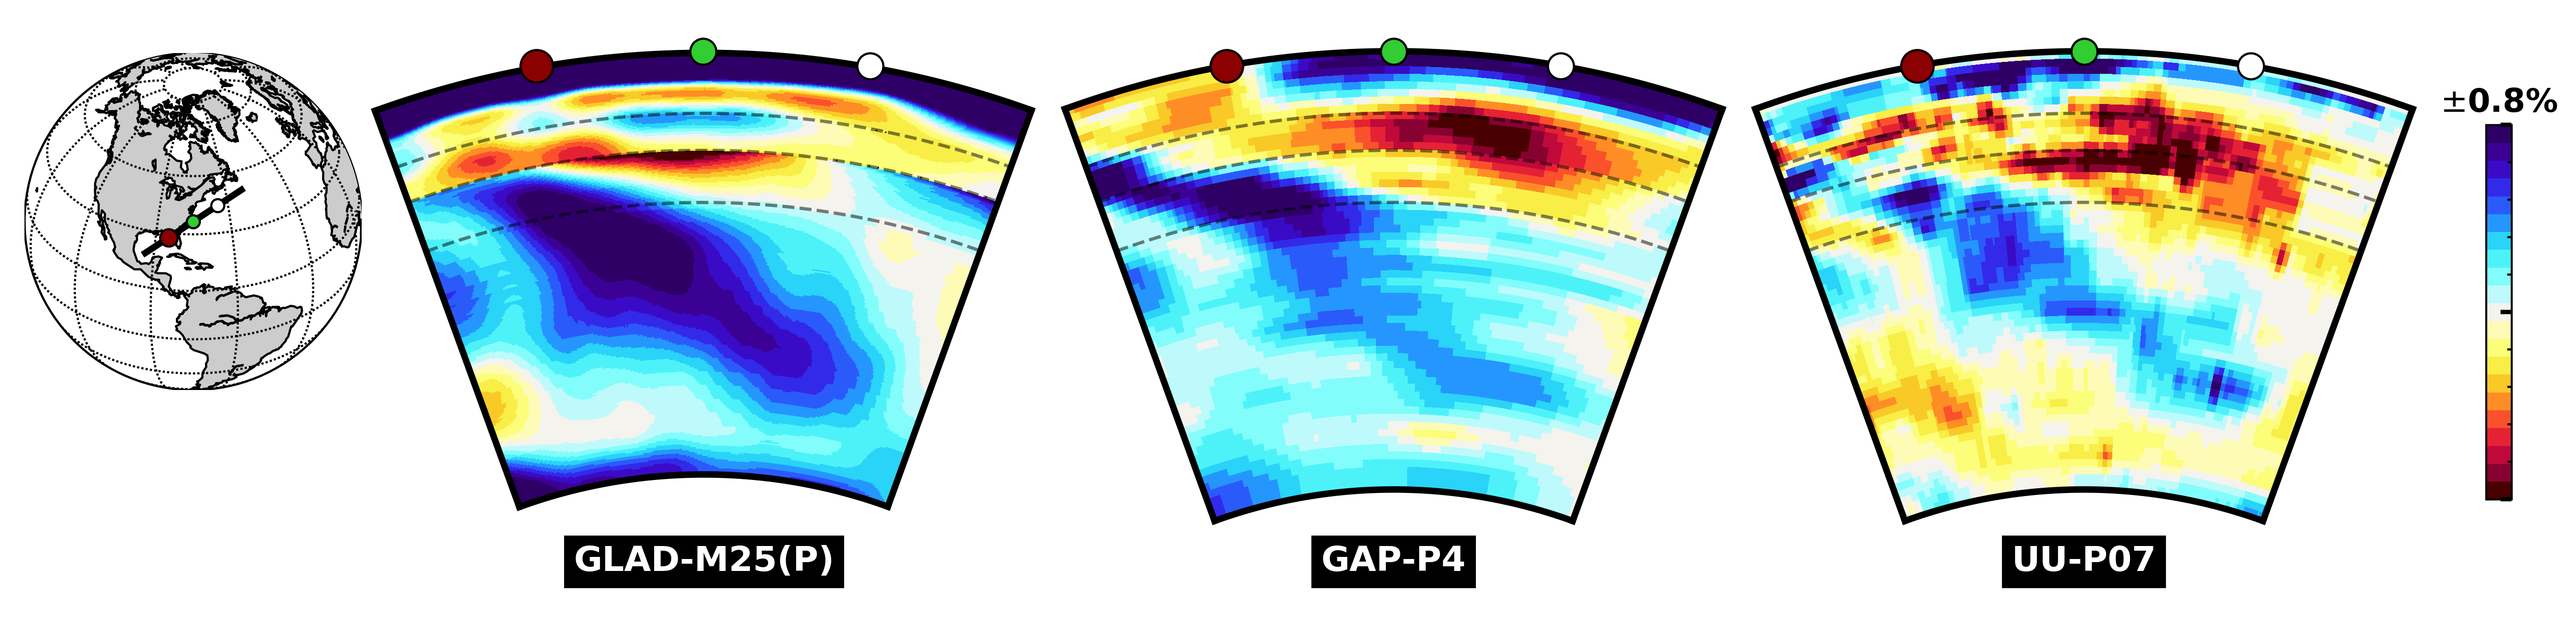
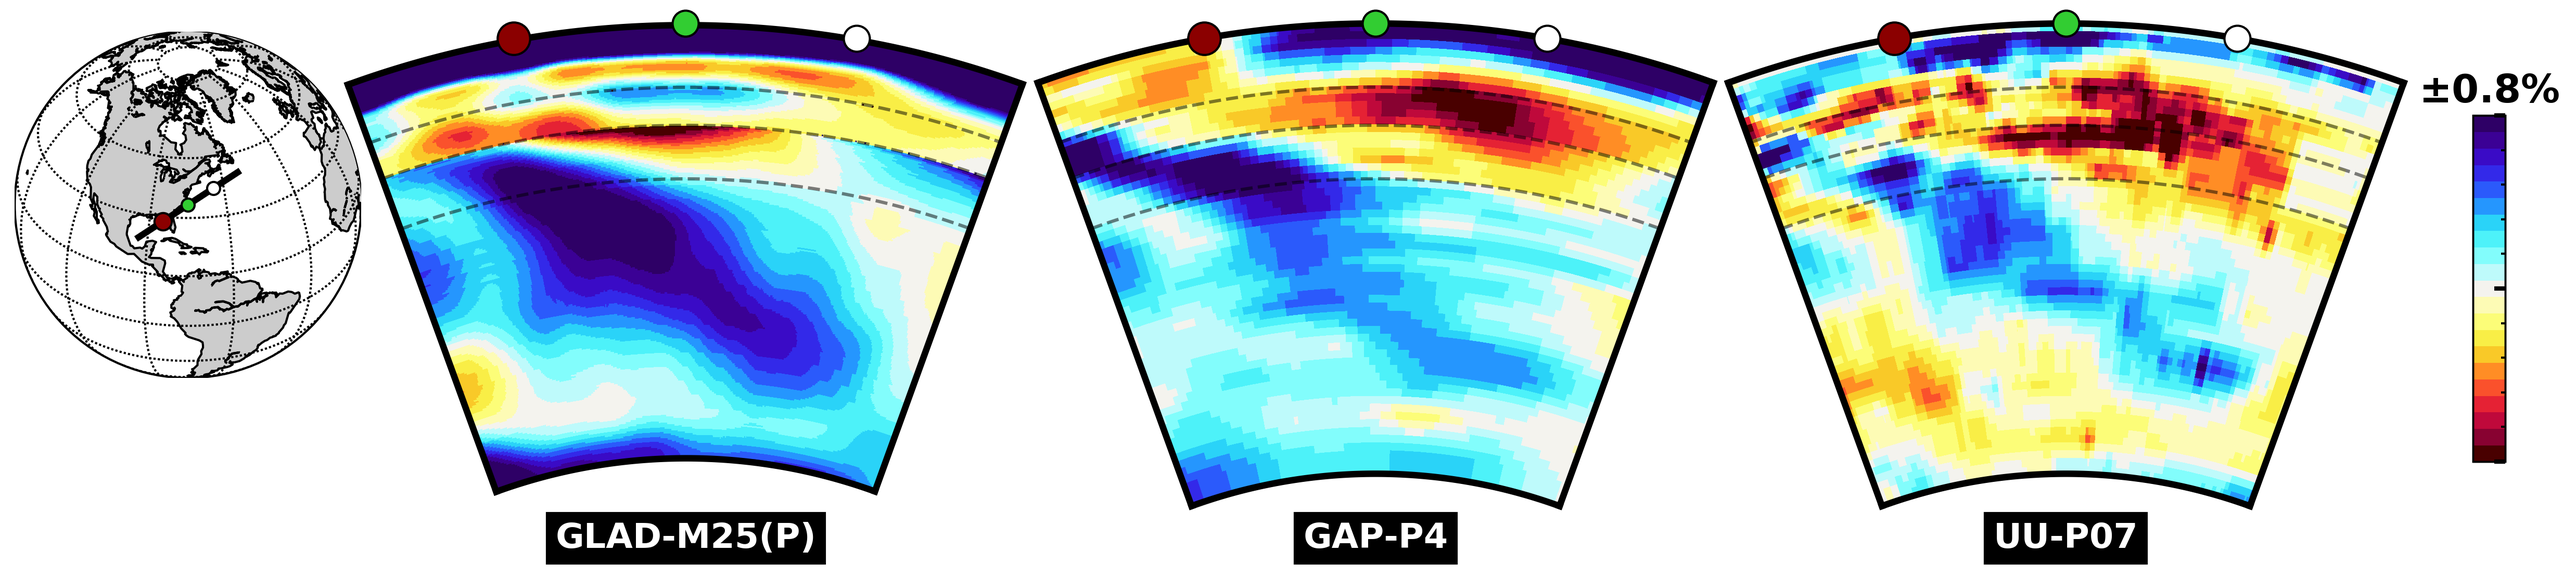
update plumes and subductions figures

diff --git a/main.tex b/main.tex
@@ -1022,11 +1022,11 @@ In this sections, we will visit some of the well-known subduction zones.
 
 \begin{figure}[h]
     \centering
-    \sidesubfloat[]{\includegraphics[width=0.98\textwidth]{figures/subductions/Aeg.png}\label{fig:a}}\\[-4pt]
-    \sidesubfloat[]{\includegraphics[width=0.98\textwidth]{figures/subductions/Br.png}\label{fig:b}}\\[-4pt]
-    \sidesubfloat[]{\includegraphics[width=0.98\textwidth]{figures/subductions/Ha.png}\label{fig:c}}\\[-4pt]
-    \sidesubfloat[]{\includegraphics[width=0.98\textwidth]{figures/subductions/Ne.png}\label{fig:d}}\\[-4pt]
-    \sidesubfloat[]{\includegraphics[width=0.98\textwidth]{figures/subductions/Wc.png}\label{fig:a}}\\[-4pt]
+    \sidesubfloat[]{\includegraphics[width=0.88\textwidth]{figures/subductions/Aeg.png}\label{fig:a}}\\[-1pt]
+    \sidesubfloat[]{\includegraphics[width=0.88\textwidth]{figures/subductions/Br.png}\label{fig:b}}\\[-1pt]
+    \sidesubfloat[]{\includegraphics[width=0.88\textwidth]{figures/subductions/Ha.png}\label{fig:c}}\\[-1pt]
+    \sidesubfloat[]{\includegraphics[width=0.88\textwidth]{figures/subductions/Ne.png}\label{fig:d}}\\[-1pt]
+    \sidesubfloat[]{\includegraphics[width=0.88\textwidth]{figures/subductions/Wc.png}\label{fig:a}}\\[-1pt]
     \caption{Vertical cross sections of perturbations of shear wave velocity Vs of plumes.}
 \end{figure}
 
